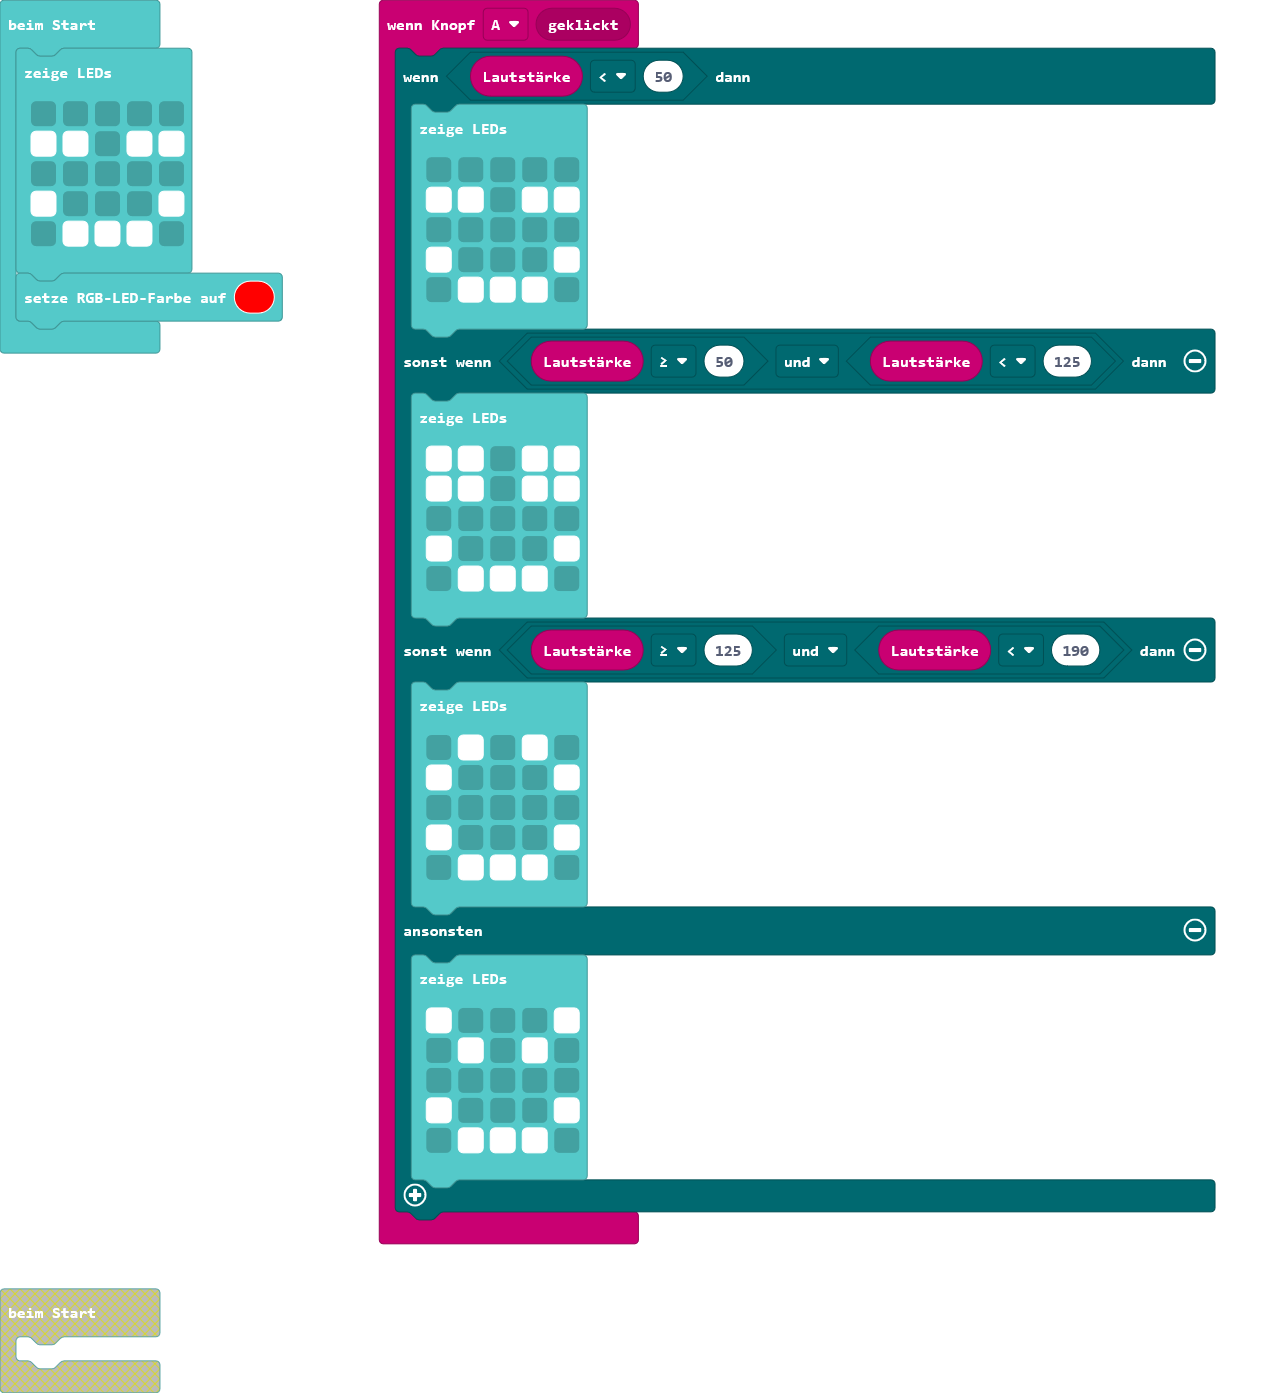
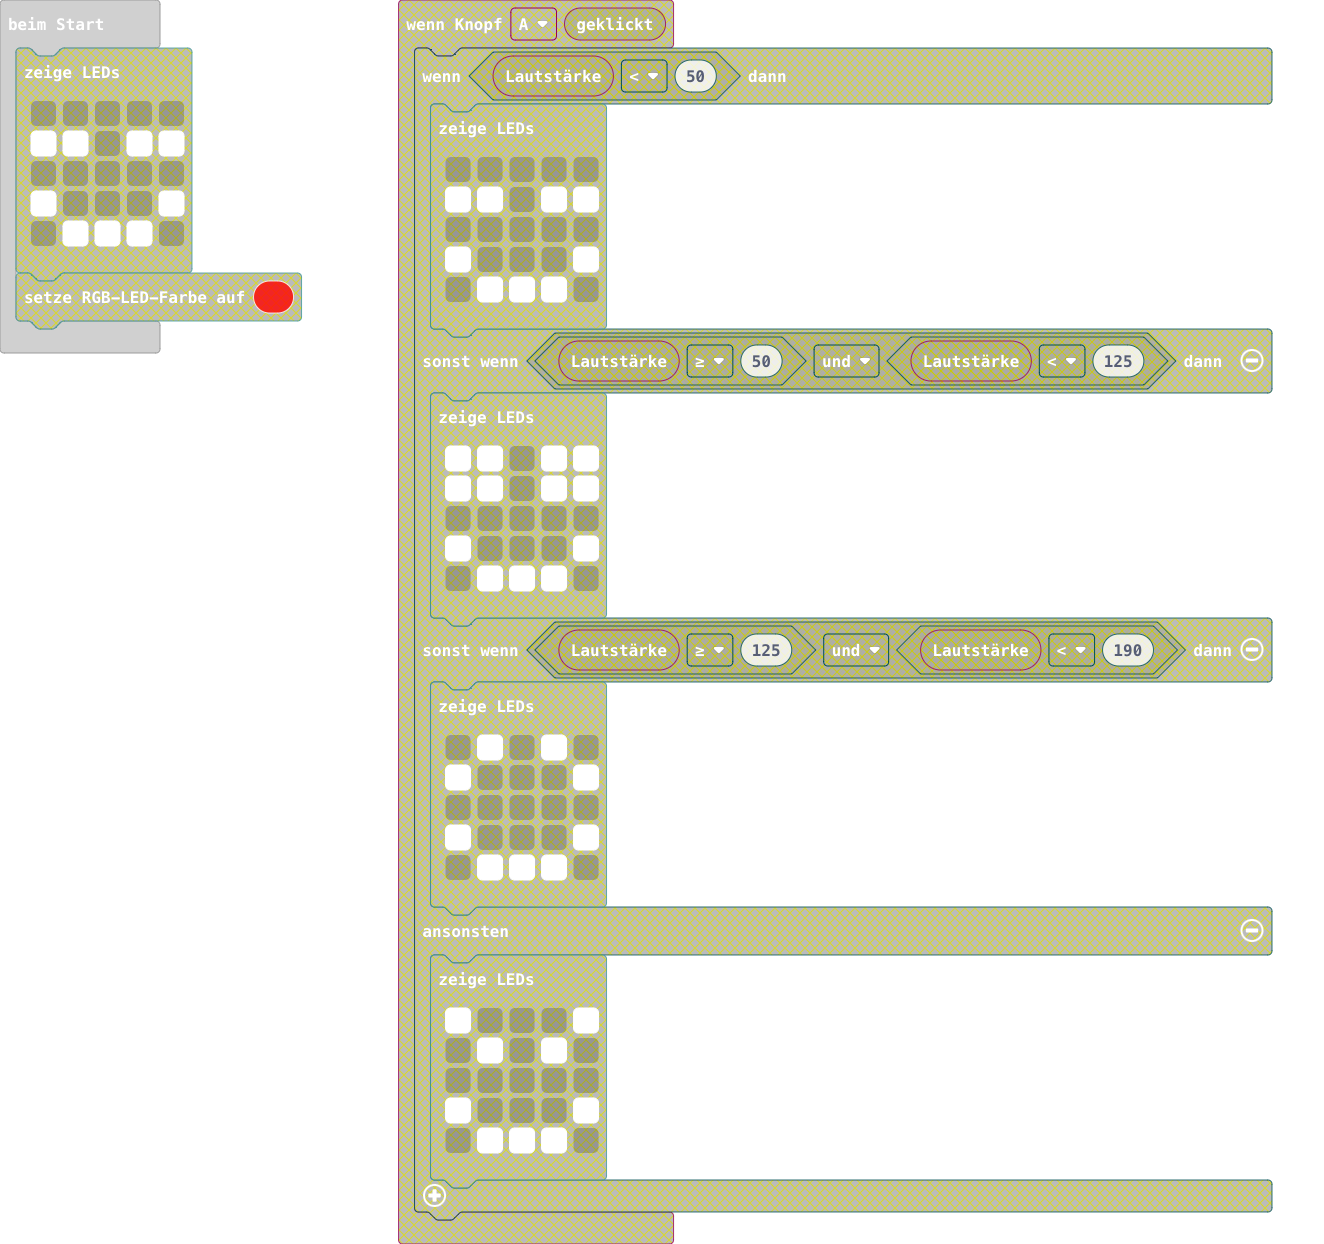
Aktualisiere main.blocks, main.ts

diff --git a/main.ts b/main.ts
@@ -1,46 +1,3 @@
-input.onButtonEvent(Button.A, input.buttonEventClick(), function () {
-    if (input.soundLevel() < 50) {
-        basic.showLeds(`
-            . . . . .
-            # # . # #
-            . . . . .
-            # . . . #
-            . # # # .
-            `)
-    } else if (input.soundLevel() >= 50 && input.soundLevel() < 125) {
-        basic.showLeds(`
-            # # . # #
-            # # . # #
-            . . . . .
-            # . . . #
-            . # # # .
-            `)
-    } else if (input.soundLevel() >= 125 && input.soundLevel() < 190) {
-        basic.showLeds(`
-            . # . # .
-            # . . . #
-            . . . . .
-            # . . . #
-            . # # # .
-            `)
-    } else {
-        basic.showLeds(`
-            # . . . #
-            . # . # .
-            . . . . .
-            # . . . #
-            . # # # .
-            `)
-    }
-})
-basic.showLeds(`
-    . . . . .
-    # # . # #
-    . . . . .
-    # . . . #
-    . # # # .
-    `)
-basic.setLedColor(0xff0000)
 basic.forever(function () {
 	
 })
